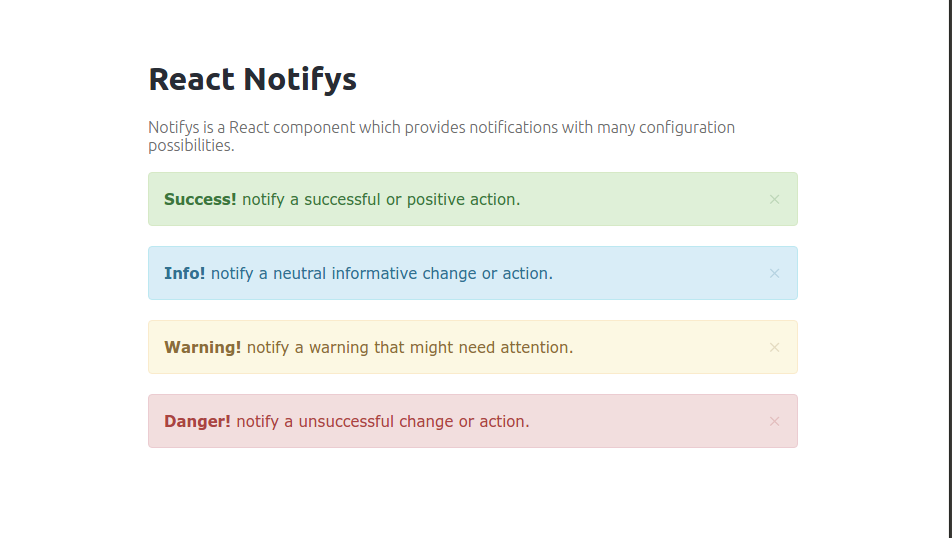
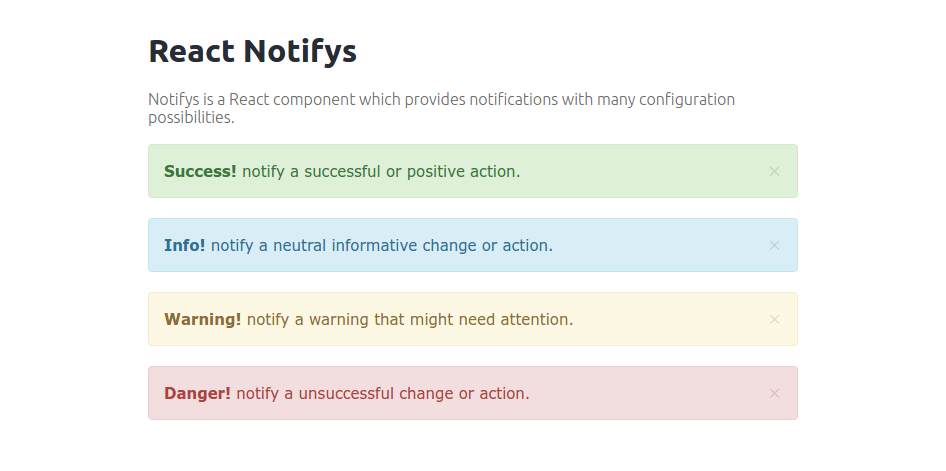
Modifying README

Changed region(s): [[0.1533, 0.4459, 0.8584, 0.8917], [0.1533, 0.0594, 0.8584, 0.4161], [0.981, 0.0, 1.0, 1.0]]

diff --git a/README.md b/README.md
@@ -42,7 +42,7 @@ You can pass below props with the default React Notifys.
 
 
 ## Basic example
-![Alt text](https://i.imgur.com/YEGlngF.png "Optional title")
+![Alt text](https://i.imgur.com/wwaBpyQ.png "Optional title")
 
 
 ## License
